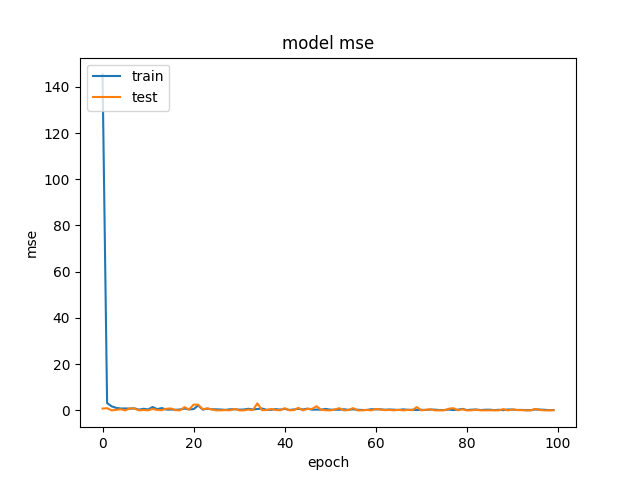
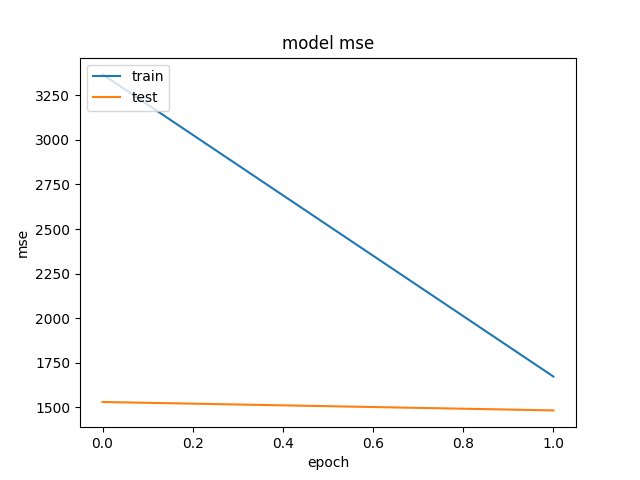
some tidying up of code

diff --git a/T2.py b/T2.py
@@ -12,9 +12,23 @@ from tensorflow import feature_column
 from sklearn.preprocessing import MinMaxScaler
 from sklearn.model_selection import train_test_split
 
-df = pd.read_csv("./prospective-ds-home-challenge/datasets/data_observations.csv")
-print(df.info())
-print(df)
+from Functions import *
+from Plots import *
+
+df1 = pd.read_csv("./prospective-ds-home-challenge/datasets/data_observations.csv")
+#df1['is_urban'] = True
+df2 = pd.read_csv("./prospective-ds-home-challenge/datasets/data_stops.csv")
+print(df2)
+print(df2.info() )
+dict = {}
+df2['is_urban'] = df2['is_urban'].astype(bool)
+#df2['is_urban'] = df2['is_urban'].apply(true if
+df1['is_urban'] = df1['stop_id'].map(df2.set_index('stop_id')['is_urban'])
+#frames = [df1, df2]
+#df = pd.concat(frames)
+#print(df.info())
+print(df1['stop_id'] == 195)
+df = df1
 df.isna().sum() #Detect empty cells in the data
 df = df.dropna() #remove rows containing empty cells
 print(df)
@@ -43,15 +57,6 @@ test_dataset = df.drop(train_dataset.index)
 
 #sns.pairplot(train_dataset[['stop_id', 'wet_weather_score', 'boardings', 'alightings', 'dwell_time']], diag_kind='kde')
 
-
-
-def df_to_dataset(dataframe,  batch_size=1):  #Function to convert the dataframe to a tensorflow dataframe that can be ML'd on. Temporarily remove the target column
-	dataframe = dataframe.copy()
-	new_df = dataframe.pop("dwell_time")
-	new_df =tf.convert_to_tensor(new_df)
-	return new_df
-
-
 batch_size = 1
 
 train_target = train_dataset["dwell_time"] 
@@ -60,6 +65,7 @@ test_target = test_dataset["dwell_time"]
 train_ds = df_to_dataset(train_dataset, batch_size=batch_size) #create coverted train dataset and select batch size
 
 test_ds = df_to_dataset(test_dataset,  batch_size=batch_size)
+
 
 
 tf.random.set_seed(42) 
@@ -71,7 +77,7 @@ model = tf.keras.Sequential([  #build NN
 			tf.keras.layers.Dense(1)
 ])
 
-model.compile( loss = tf.keras.losses.mae, #mae stands for mean absolute error
+model.compile( loss = tf.keras.losses.mse, #mae stands for mean squared error
               optimizer = tf.keras.optimizers.Adam(learning_rate=0.0001), #stochastic GD
               metrics = ['mse'])
 
@@ -88,55 +94,18 @@ print(np.round(prediction, 6))
 
 print(model.summary() )
 
-
 mse = tf.metrics.mean_squared_error( test_target, prediction) #Calculate mse
 print('MSE')
 print(mse)
 
-
-
 print(history.history.keys())
 x = 'mse' 
 y = 'val_mse'
-
-def plot_loss(x , y):
-	plt.figure
-	plt.plot(history.history[x])  #Make a plot of the mae (similar to loss) vs. epochs
-	plt.plot(history.history[y])
-	plt.title('model mse')
-	plt.ylabel('mse')
-	plt.xlabel('epoch')
-	plt.legend(['train', 'test'], loc='upper left')
-	plt.draw()
-	plt.savefig('plot.png')
-	plt.figure().clear()
-	plt.close()
-	plt.cla()
-	plt.clf()
-
 plot_loss(x,y)
 
 x_p=test_ds
 y_p=prediction
-def plot_train_test(x_p, y_p):	#Plot the predictions vs. true values with a scatter of the 'residuals'
-	plt.figure
-	plt.scatter(x_p, y_p, c='crimson', s =2)
-	p1 = max(max(y_p), max(x_p))
-	p2 = min(min(y_p), min(x_p))
-	plt.plot(['test','predictions'], [p1,p2], 'b-')
-	plt.xlabel('test')
-	plt.ylabel('predictions')
-	plt.axis('equal')
-	plt.legend([x_p, y_p], loc='upper left')
-	plt.draw()
-	plt.savefig('plot2.png')
-	plt.figure().clear()
-	plt.close()
-	plt.cla()
-	plt.clf()
-
 plot_train_test(x_p,y_p)
-
 
 
 

diff --git a/Plots.py b/Plots.py
@@ -1,0 +1,67 @@
+#Script that contains plotting functions across the three main scripts
+
+
+def plot_percentage_hourly(day, result):
+	plt.figure() 
+	plt.title('OTP for ' + str(day))
+	names = list(result.keys() )
+	percentages = list(result.values() )
+	plt.bar(range(len(result)), percentages, tick_label = names)
+	plt.ylabel('Percentages(%)')
+	plt.xlabel('hour be' + str(day))
+	plt.xticks(rotation=90)
+	plt.savefig('plots/Hourly_OTP_' + str(day) + '.png')
+	plt.figure().clear()
+	plt.close()
+	plt.cla()
+	plt.clf()
+
+
+def plot_percentage_day(day, result):
+	plt.figure() 
+	plt.title('OTP for date ' + str(day))
+	names = list(result.keys() )
+	percentages = list(result.values() )
+	plt.bar(range(len(result)), percentages, tick_label = names)
+	plt.ylabel('Percentages(%)')
+	plt.xlabel('Trip number for date ' + str(day))
+	plt.xticks(rotation=90)
+	plt.savefig('plots/OTP_day_' + str(day) + '.png')
+	plt.figure().clear()
+	plt.close()
+	plt.cla()
+	plt.clf()
+
+
+def plot_loss(x , y):
+	plt.figure
+	plt.plot(history.history[x])  #Make a plot of the mae (similar to loss) vs. epochs
+	plt.plot(history.history[y])
+	plt.title('model mse')
+	plt.ylabel('mse')
+	plt.xlabel('epoch')
+	plt.legend(['train', 'test'], loc='upper left')
+	plt.draw()
+	plt.savefig('plot.png')
+	plt.figure().clear()
+	plt.close()
+	plt.cla()
+	plt.clf()
+
+
+def plot_train_test(x_p, y_p):	#Plot the predictions vs. true values with a scatter of the 'residuals'
+	plt.figure
+	plt.scatter(x_p, y_p, c='crimson', s =2)
+	p1 = max(max(y_p), max(x_p))
+	p2 = min(min(y_p), min(x_p))
+	plt.plot(['test','predictions'], [p1,p2], 'b-')
+	plt.xlabel('test')
+	plt.ylabel('predictions')
+	plt.axis('equal')
+	plt.legend([x_p, y_p], loc='upper left')
+	plt.draw()
+	plt.savefig('plot2.png')
+	plt.figure().clear()
+	plt.close()
+	plt.cla()
+	plt.clf()

diff --git a/T1Q1.py b/T1Q1.py
@@ -8,6 +8,9 @@ import seaborn
 
 import matplotlib.pyplot as plt
 
+from Functions import *
+from Plots import *
+
 ### T1Q1. Calculate and plot the daily OTP for route 56 during March 2022. i.e. report_data vs. OTP percentage. Note the OTP is expected to vary day by day and be systematically different on weekends.
 
 df_TO = pd.read_csv("./prospective-ds-home-challenge/datasets/timing_observations.csv")
@@ -51,12 +54,6 @@ df_trip = {}
 
 days = df_TO_2['report_date'].nunique()
 
-#Convert all time data columns to seconds
-#SUPER CLUNKY CONVERT TO FUNCTION!!!!
-def time_convert(dataframe, column_name):
-	print(column_name)
-	dataframe[column_name] = pd.to_datetime(dataframe[column_name], format =  '%H:%M:%S')
-	dataframe[column_name] = dataframe[column_name].dt.hour * 3600 + dataframe[column_name].dt.minute * 60 + 			 	 	dataframe[column_name].dt.second
 
 time_convert(df_TO_2, 'scheduled_start_time')
 time_convert(df_TO_2, 'scheduled_arrival')
@@ -65,22 +62,6 @@ time_convert(df_TO_2, 'observed_arrival')
 time_convert(df_TO_2, 'observed_departure')
 
 print(df_TO_2)
-
-def plot_percentage(day, result):
-	plt.figure() 
-	plt.title('OTP for date ' + str(day))
-	names = list(result.keys() )
-	percentages = list(result.values() )
-	plt.bar(range(len(result)), percentages, tick_label = names)
-	plt.ylabel('Percentages(%)')
-	plt.xlabel('Trip number for date ' + str(day))
-	plt.xticks(rotation=90)
-	plt.savefig('plots/OTP_day_' + str(day) + '.png')
-	plt.figure().clear()
-	plt.close()
-	plt.cla()
-	plt.clf()
-	
 
 for day in range(days):
 	#print(day)
@@ -121,7 +102,7 @@ for day in range(days):
 	for k,v in int_to_days.items():
 		if k == day:
 			day = v
-	plot_percentage(day, result)
+	plot_percentage_day(day, result)
 	
 
 

diff --git a/T1Q2.py b/T1Q2.py
@@ -12,6 +12,9 @@ from pandas.tseries.offsets import BDay
 
 import array as arr
 
+from Functions import *
+from Plots import *
+
 
 ## T1Q2: Only including data for weekdays, calculate and plot the hourly OTP for route 56. Use the schedule_start_time hour to bin the data.
 df_TO = pd.read_csv("./prospective-ds-home-challenge/datasets/timing_observations.csv")
@@ -63,11 +66,6 @@ df_trip = {}
 
 days = df_TO_2['day_of_week'].nunique()
 
-def time_convert(dataframe, column_name):
-	print(column_name)
-	dataframe[column_name] = pd.to_datetime(dataframe[column_name], format =  '%H:%M:%S')
-	dataframe[column_name] = dataframe[column_name].dt.hour * 3600 + dataframe[column_name].dt.minute * 60 + dataframe[column_name].dt.second			
-
 time_convert(df_TO_2, 'scheduled_start_time')
 time_convert(df_TO_2, 'scheduled_arrival')
 time_convert(df_TO_2, 'scheduled_departure')
@@ -81,23 +79,6 @@ print(df_TO_2.info() )
 df_day = {}
 df_hour = {}
 
-
-
-def plot_percentage(day, result):
-	plt.figure() 
-	plt.title('OTP for ' + str(day))
-	names = list(result.keys() )
-	percentages = list(result.values() )
-	plt.bar(range(len(result)), percentages, tick_label = names)
-	plt.ylabel('Percentages(%)')
-	plt.xlabel('hour be' + str(day))
-	plt.xticks(rotation=90)
-	plt.savefig('plots/Hourly_OTP_' + str(day) + '.png')
-	plt.figure().clear()
-	plt.close()
-	plt.cla()
-	plt.clf()
-	
 
 for weekday in range(days):
 	print('weekday ', weekday)
@@ -135,4 +116,4 @@ for weekday in range(days):
 		print(OTP)
 		result[hour] = OTP
 	print(result)
-	plot_percentage(df_day['day_of_week'].iloc[0], result)
+	plot_percentage_hourly(df_day['day_of_week'].iloc[0], result)

diff --git a/Functions.py b/Functions.py
@@ -1,0 +1,23 @@
+#Script to contain the non-plotting functions used across the three main scripts.
+import numpy as np
+
+import pandas as pd
+from pandas import Series
+
+import seaborn
+
+import matplotlib.pyplot as plt
+
+def time_convert(dataframe, column_name):
+	print(column_name)
+	dataframe[column_name] = pd.to_datetime(dataframe[column_name], format =  '%H:%M:%S')
+	dataframe[column_name] = dataframe[column_name].dt.hour * 3600 + dataframe[column_name].dt.minute * 60 + 			 	 	dataframe[column_name].dt.second
+
+
+def df_to_dataset(dataframe,  batch_size=1):  #Function to convert the dataframe to a tensorflow dataframe that can be ML'd on. Temporarily remove the target column
+	dataframe = dataframe.copy()
+	new_df = dataframe.pop("dwell_time")
+	new_df = dataframe.pop("is_urban")
+	new_df = tf.convert_to_tensor(new_df)
+	return new_df
+

diff --git a/ReadMe.md b/ReadMe.md
@@ -29,7 +29,9 @@ The aim of the task was to building a machine learning (ML) model that predicted
 
 The model trains on the training data of which there is a 80/20 train/test split, trying to learn the patterns in the data, to then predict the dwell\_time on the test dataset. 
 
-Due to time constraints there has not been much parameter optimisation, although generally for regression problems there is a somewhat standard set of parameters. Hence, the input and hidden layer, both use the `ReLu` activation function, the `Adam` optimiser is used, and the learning rate is set to 0.0001. These parameters yield good results, as a plot is made of the true test dwell\_time values vs. the predicted dwell\_time values (using the test set), and it is very close, with values lying on the diagonal.
+Due to time constraints there has not been much parameter optimisation, although generally for regression problems there is a somewhat standard set of parameters. Hence, the input and hidden layer, both use the `ReLu` activation function, the `Adam` optimiser is used, and the learning rate is set to 0.0001. These parameters yield good results, as a plot is made of the true test dwell\_time values vs. the predicted dwell\_time values (using the test set), and it is very close, with values lying on the diagonal, the residuals are plotted too (but they are tiiiiinnnnnnyyyyy).
+
+As we are doing regression, there is no activation function in the output layer, as we want a linear transform (i.e no multiplication).
 
 
 # Requirements
